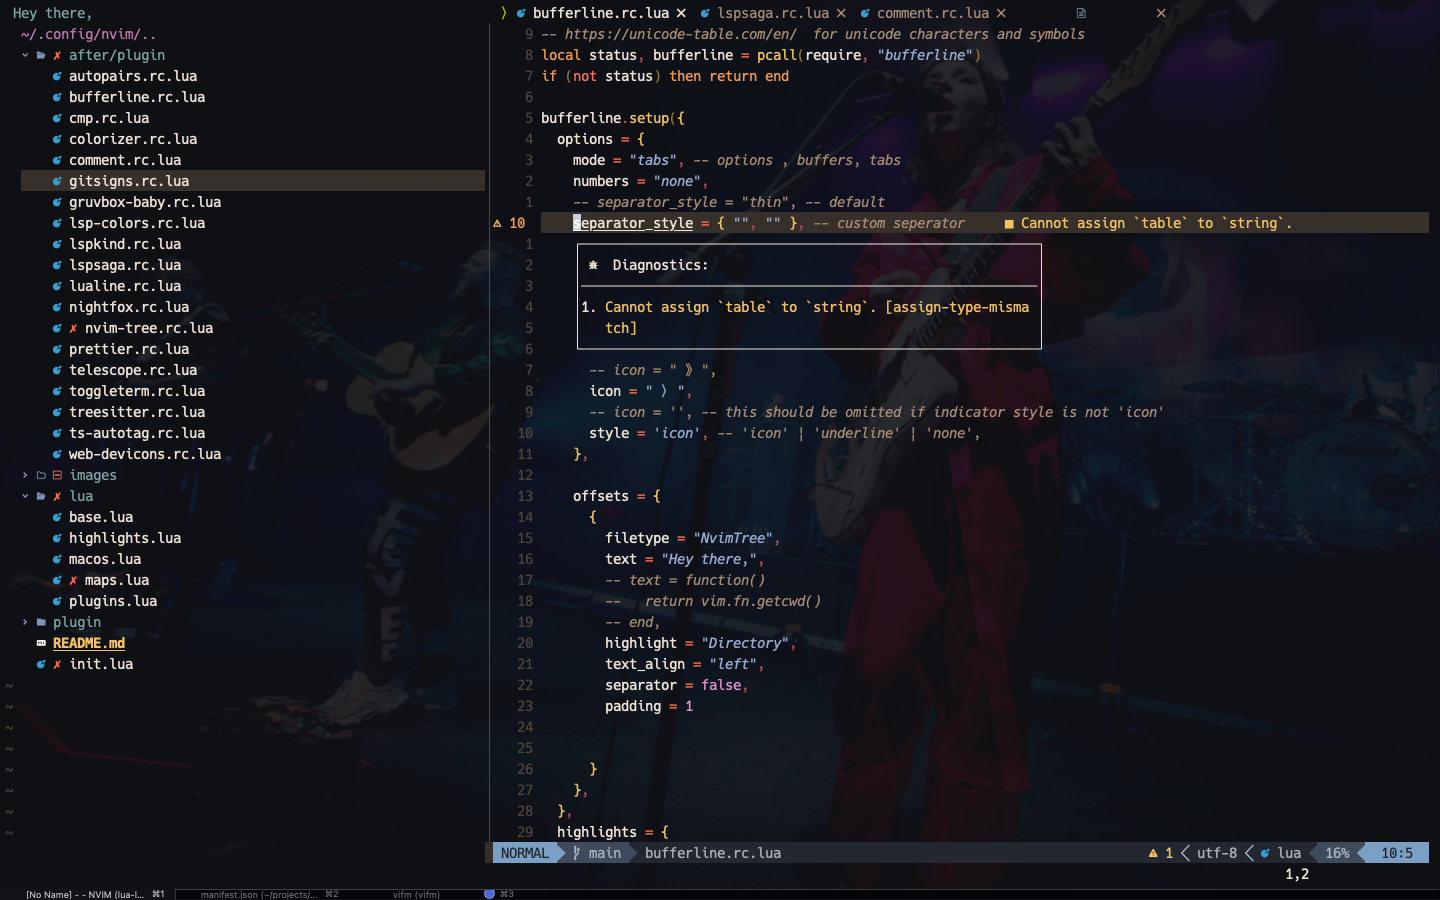
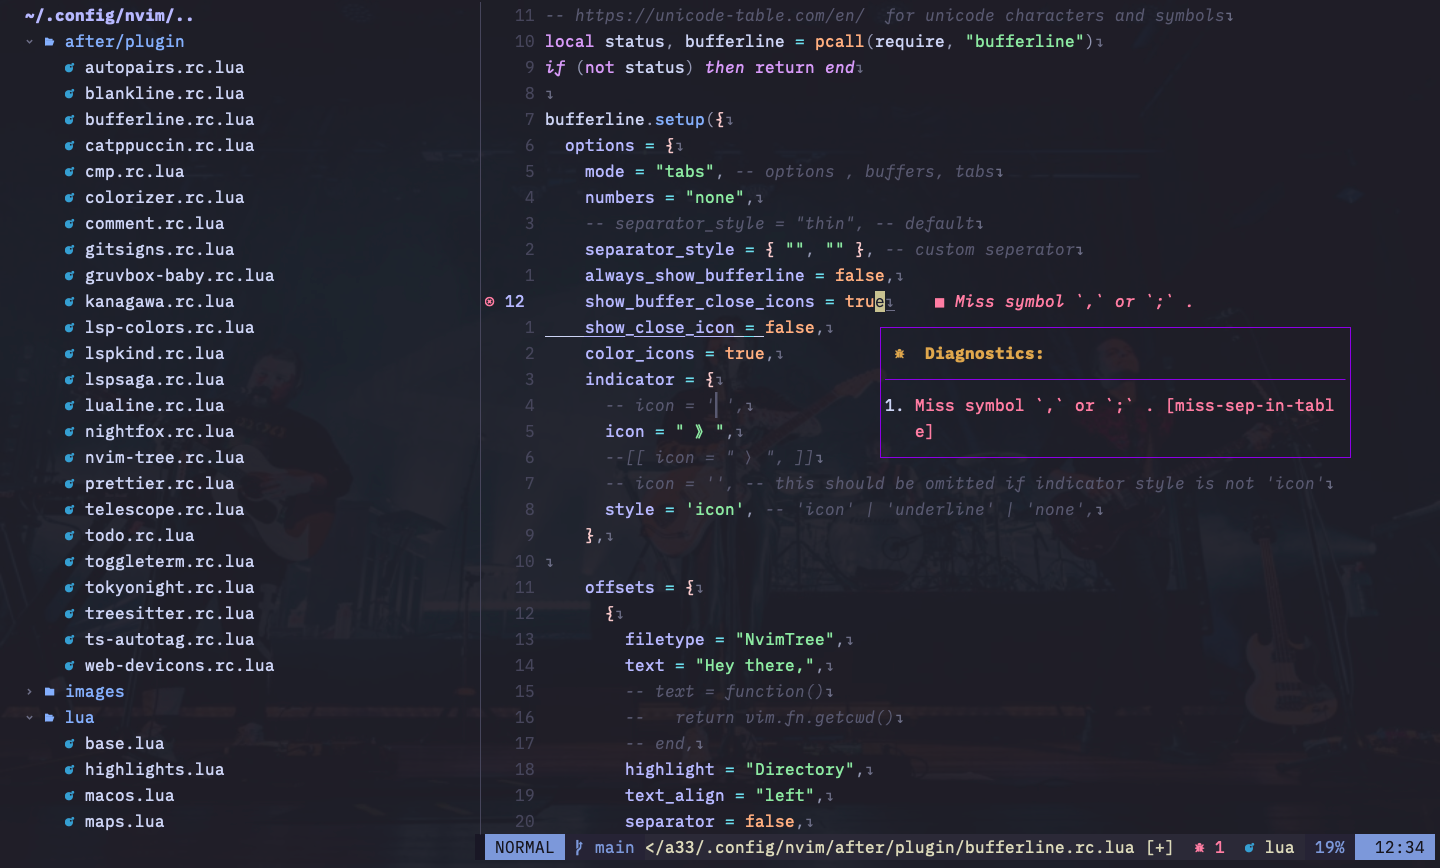
feat: updated images font and colorscheme

diff --git a/README.md b/README.md
@@ -11,10 +11,11 @@
 
 **What you see in screenshots ?.**
 
-- Font ~ Hack Nerd Font Mono
-- ColorScheme ~ Melange
+- Font ~ IBM Plex Mono
+- Icon font ~ Hack Nerd Font Mono
+- ColorScheme ~ Catppuccin(frappe)
 - BG ~ Of Monsters and Men
-- Plugins in use ~ NvimTree, Telescope, Bufferline, LSP Diagnostic ( Lspsaga ), NvimTransparent.
+- Plugins in use ~ NvimTree, Telescope, Bufferline, LSP Diagnostic ( Lspsaga ), NvimTransparent, TermToggle.
 
 **Special Mention** [craftzdog](https://github.com/craftzdog) for step by step setup to neovim in lua
 
